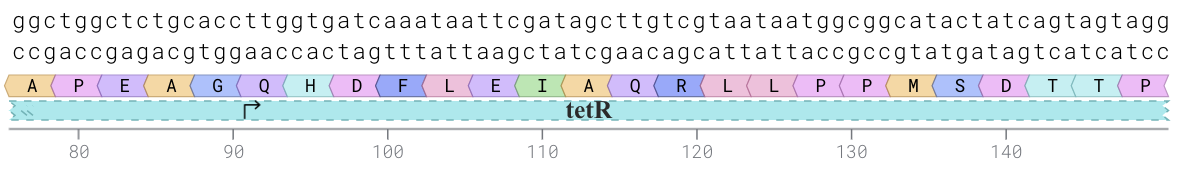
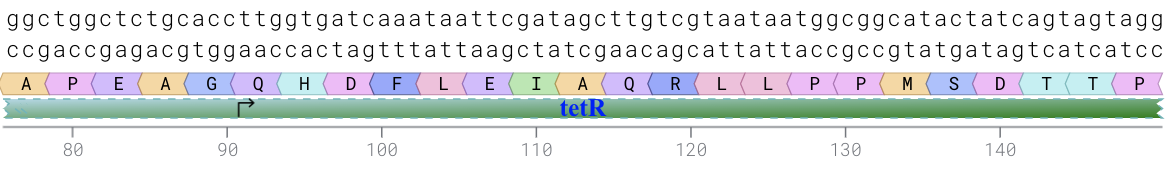
more updating.

diff --git a/README.md b/README.md
@@ -143,7 +143,17 @@ The name of the sequence/plasmid. Shown at the center of the circular viewer.
 
 An array of `Annotation`s to render. Each `Annotation` requires 0-based start (inclusive) and end (exclusive) indexes. `name`s are rendered on top of the annotations. Set the annotation's direction to `1` for forward arrows and `-1` for reverse arrows.
 
-Optional Parameters:
+```js
+annotations = [
+  { start: 0, end: 22, name: "Strong promoter", direction: 1 }, // [0, 22)
+  { start: 23, end: 273, name: "GFP" },
+  { start: 300, end: 325, name: "Weak promoter", direction: -1, color: "#FAA887" },
+];
+```
+
+In the example above, the "Strong promoter" would span the first to twenty-second base pair.
+
+Optional Annotation Parameters:
  - Annotation border styling: `"dashed" | "dotted" | "bold"`
  ```js
 annotations = [
@@ -172,18 +182,15 @@ annotations = [
 ];
 ```
 
-Example result of using optional annotation paramters:
-<img src="./demo/public/annotations-example.png" width="300" />
-
+Example result of using optional annotation parameters:
 ```js
-annotations = [
-  { start: 0, end: 22, name: "Strong promoter", direction: 1 }, // [0, 22)
-  { start: 23, end: 273, name: "GFP" },
-  { start: 300, end: 325, name: "Weak promoter", direction: -1, color: "#FAA887" },
-];
+annotation['border'] = 'dashed';
+annotation['font'] = {"fontFamily": "Times New Roman", "fontWeight": 800, "fontSize": 17, "fontColor": 'blue'}
+annotation['svg'] = 'promoter'
+annotation['gradient'] = {start: 'lightblue', stop: 'green'}
 ```
-
-In the example above, the "Strong promoter" would span the first to twenty-second base pair.
+<br></br>
+<img src="./demo/public/annotations-example.png" width="500" />
 
 #### `primers (=[])`
 
